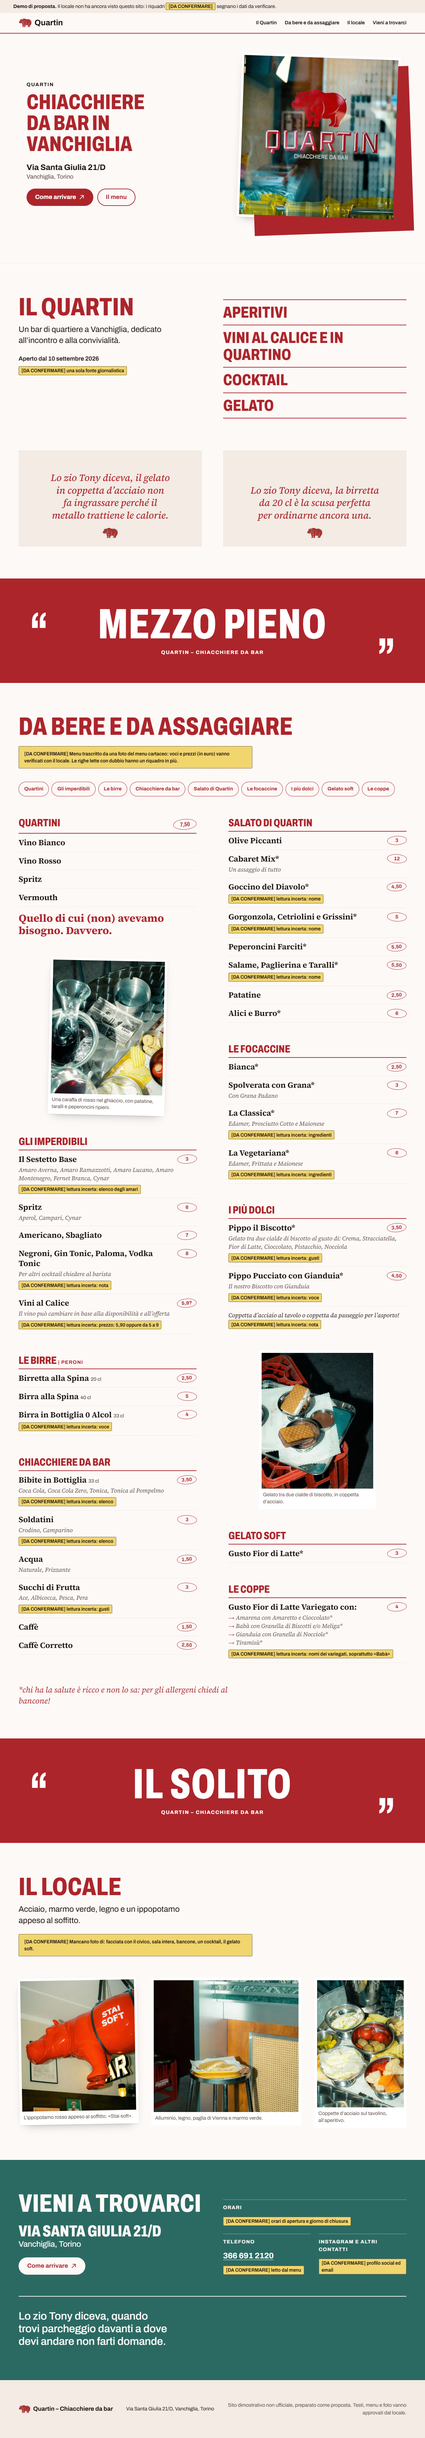
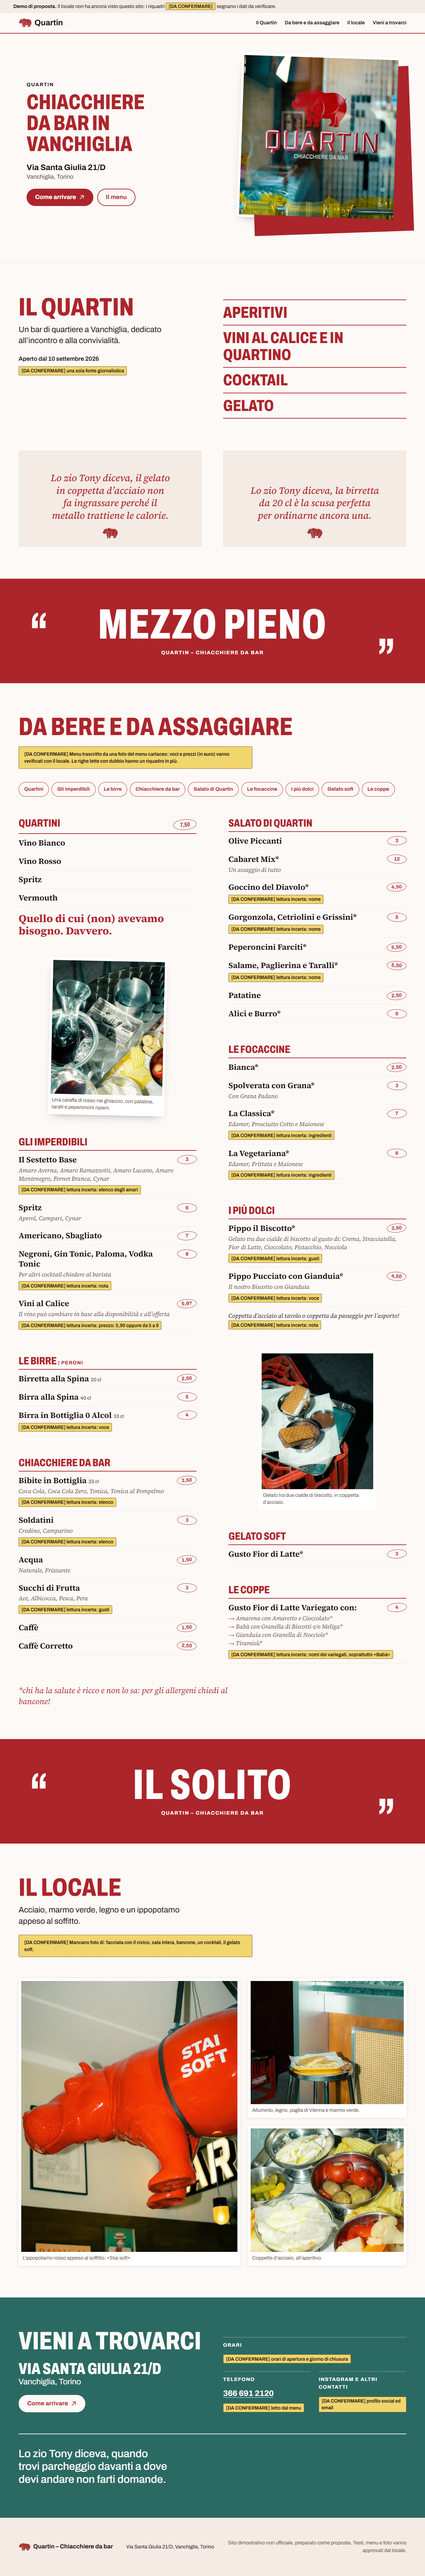
Galleria: ippopotamo su due righe, tre figure identiche e dritte, didascalie a 15 px

diff --git a/css/style.css b/css/style.css
@@ -56,6 +56,7 @@
   /* passi intermedi chiesti per due elementi precisi */
   --fs-detto: clamp(1.375rem, 1.183rem + 0.787vw, 1.8125rem); /* 22 → 29 px, frasi dello zio Tony */
   --fs-hero: clamp(2.5rem, 1.843rem + 2.697vw, 4rem);          /* 40 → 64 px, titolo d'apertura */
+  --fs-didascalia: 0.9375rem;                                    /* 15 px fissi, didascalie della galleria */
 
   /* Scala delle spaziature */
   --sp-3xs: 0.25rem;
@@ -624,14 +625,34 @@ html:not(.js) .nav-bottone { display: none; }
 /* ---------- Il locale ---------- */
 .locale { border-top: 1px solid var(--carta-scura); }
 .locale-manca { margin-top: var(--sp-m); }
+/* Sotto i 768 px: una colonna, tutte le foto in 4:5 */
 .galleria {
   display: grid;
-  gap: var(--sp-xl);
+  gap: var(--sp-m); /* 24 px */
   margin-top: var(--sp-xl);
 }
-.galleria-a { --giro: -1deg; }
-.galleria-b { margin-left: var(--sp-l); }
-.galleria-c { max-width: 17rem; }
+/* tre figure identiche: stessa cornice, stessa ombra leggera, tutte dritte */
+.galleria .stampa {
+  display: flex;
+  flex-direction: column;
+  box-shadow: 0 2px 12px rgb(0 0 0 / 0.08);
+  transform: none;
+}
+/* in colonna la foto prende lo spazio che resta sopra la didascalia, anche quando la
+   griglia allunga la figura per pareggiare le righe */
+.galleria img {
+  flex: 1 1 auto;
+  width: 100%;
+  height: 100%;
+  min-height: 0;
+  aspect-ratio: 4 / 5;
+  object-fit: cover;
+}
+/* il muso è a sinistra e «STAI SOFT» a destra: 42% tiene dentro tutti e due anche a 768 px */
+.galleria-a img { object-position: 42% center; }
+.galleria-b img { object-position: center 60%; }
+.galleria-c img { object-position: center; }
+.galleria figcaption { font-size: var(--fs-didascalia); }
 
 /* ---------- Vieni a trovarci ---------- */
 .vieni {
@@ -742,14 +763,15 @@ html:not(.js) .nav-bottone { display: none; }
   .menu-indice ul { flex-wrap: wrap; padding: 0; overflow: visible; }
   .menu-gruppo { scroll-margin-top: 0; }
 
-  /* tre foto in fila: colonne proporzionali alla forma di ogni foto, così hanno la stessa altezza */
+  /* ippopotamo grande a sinistra su due righe, le altre due a destra una per riga */
   .galleria {
-    grid-template-columns: 35fr 44fr 27fr;
-    align-items: start;
-    gap: var(--sp-l);
+    grid-template-columns: 7fr 5fr;
+    grid-template-rows: 1fr 1fr;
+    align-items: stretch;
   }
-  .galleria-b { margin-left: 0; }
-  .galleria-c { max-width: none; }
+  .galleria-a { grid-row: 1 / span 2; }
+  .galleria-b, .galleria-c { grid-column: 2; }
+  .galleria-b img, .galleria-c img { aspect-ratio: 4 / 3; }
 
   .contatti { grid-template-columns: 1fr 1fr; }
   .contatti-voce:first-child { grid-column: 1 / -1; }

diff --git a/index.html b/index.html
@@ -190,17 +190,17 @@
         <p class="attacco">Acciaio, marmo verde, legno e un ippopotamo appeso al soffitto.</p>
         <p class="dc dc-blocco locale-manca">[DA CONFERMARE] Mancano foto di: facciata con il civico, sala intera, bancone, un cocktail, il gelato soft.</p>
         <div class="galleria">
-          <figure class="stampa stampa-inclinata galleria-a">
+          <figure class="stampa galleria-a">
             <img src="img/ippopotamo-stai-soft.webp" width="645" height="737" loading="lazy"
                  srcset="img/ippopotamo-stai-soft-480.webp 480w, img/ippopotamo-stai-soft.webp 645w"
-                 sizes="(min-width: 64em) 22rem, (min-width: 48em) 30vw, calc(100vw - 2.5rem)"
+                 sizes="(min-width: 78rem) 39rem, (min-width: 48em) 54vw, calc(100vw - 3.5rem)"
                  alt="Un grande ippopotamo rosso lucido appeso al soffitto con cinghie nere, con scritto sul fianco «STAI SOFT»; dietro, una parete crema, un’insegna luminosa e una lampadina accesa.">
             <figcaption>L’ippopotamo rosso appeso al soffitto: «Stai soft».</figcaption>
           </figure>
           <figure class="stampa galleria-b">
             <img src="img/arredo-sgabello.webp" width="685" height="624" loading="lazy"
                  srcset="img/arredo-sgabello-480.webp 480w, img/arredo-sgabello.webp 685w"
-                 sizes="(min-width: 64em) 28rem, (min-width: 48em) 38vw, calc(100vw - 2.5rem)"
+                 sizes="(min-width: 78rem) 28rem, (min-width: 48em) 37vw, calc(100vw - 3.5rem)"
                  alt="Un panino tostato su uno sgabello cromato, davanti a pannelli di alluminio, legno chiaro con paglia di Vienna e una fascia di marmo verde con mensole.">
             <figcaption>Alluminio, legno, paglia di Vienna e marmo verde.</figcaption>
           </figure>
@@ -208,9 +208,9 @@
             <!-- Ritaglio di 4.png senza la persona: esiste solo a 383 px, una sola misura. -->
             <img src="img/cabaret-tavolino.webp" width="383" height="560" loading="lazy"
                  srcset="img/cabaret-tavolino.webp 383w"
-                 sizes="(min-width: 64em) 17rem, (min-width: 48em) 24vw, calc(100vw - 2.5rem)"
+                 sizes="(min-width: 78rem) 28rem, (min-width: 48em) 37vw, calc(100vw - 3.5rem)"
                  alt="Coppette d’acciaio sul tavolino: burrata con olio, pomodorini e olive, cetriolini, verdure, patatine e focaccia.">
-            <figcaption>Coppette d’acciaio sul tavolino, all’aperitivo.</figcaption>
+            <figcaption>Coppette d’acciaio, all’aperitivo.</figcaption>
           </figure>
         </div>
       </div>

diff --git a/DECISIONI.md b/DECISIONI.md
@@ -137,3 +137,22 @@ Fatte tutte. Dove ho dovuto scegliere un dettaglio, ecco come e perché.
 36. **Galleria**: tre foto in fila con colonne proporzionali alla forma di ciascuna, così
     hanno la stessa altezza; la nota [DA CONFERMARE] è sotto il titolo (sostituisce la 15
     per la parte del riquadro vuoto).
+
+## Revisione della galleria (28/10/2026)
+
+37. **Galleria rifatta come chiesto** (sostituisce la 36 e, per la galleria, la 34):
+    da 768 px griglia 7fr/5fr con l'ippopotamo su due righe a sinistra e le altre due foto
+    a destra; sotto i 768 px una colonna con tutte le foto in 4:5. Le tre figure sono
+    identiche: cornice bianca di 8 px, ombra `0 2px 12px rgb(0 0 0 / .08)`, nessuna rotazione.
+    Didascalie a 15 px (nuovo passo fisso `--fs-didascalia`), «Coppette d'acciaio, all'aperitivo.».
+38. **Proporzioni non sempre esatte, di proposito**: la griglia pareggia le altezze, quindi
+    la foto si allunga per riempire la figura (`object-fit: cover`). A 1280 px l'ippopotamo
+    è 4:5 esatto e le due a destra 1,24 invece di 1,33; a 768 px l'ippopotamo diventa 0,74
+    perché la didascalia dello sgabello va su due righe. Il 4:5 e il 4:3 restano la misura
+    di partenza (`aspect-ratio`), la figura in colonna dà alla foto lo spazio sopra la didascalia.
+39. **Inquadrature**: sgabello `center 60%`, coppette `center` come chiesto; ippopotamo
+    `42% center`, scelto in due giri: al 30% a 768 px si tagliava la T di «SOFT», al 42%
+    restano dentro sia il muso sia la scritta.
+40. **Le coppette a destra su desktop sono morbide**: il ritaglio senza la persona è largo
+    383 px e qui viene mostrato a circa 460 px in 4:3, quindi si vede metà dell'altezza
+    originale, un po' ingrandita. Serve la foto originale per fare meglio.
